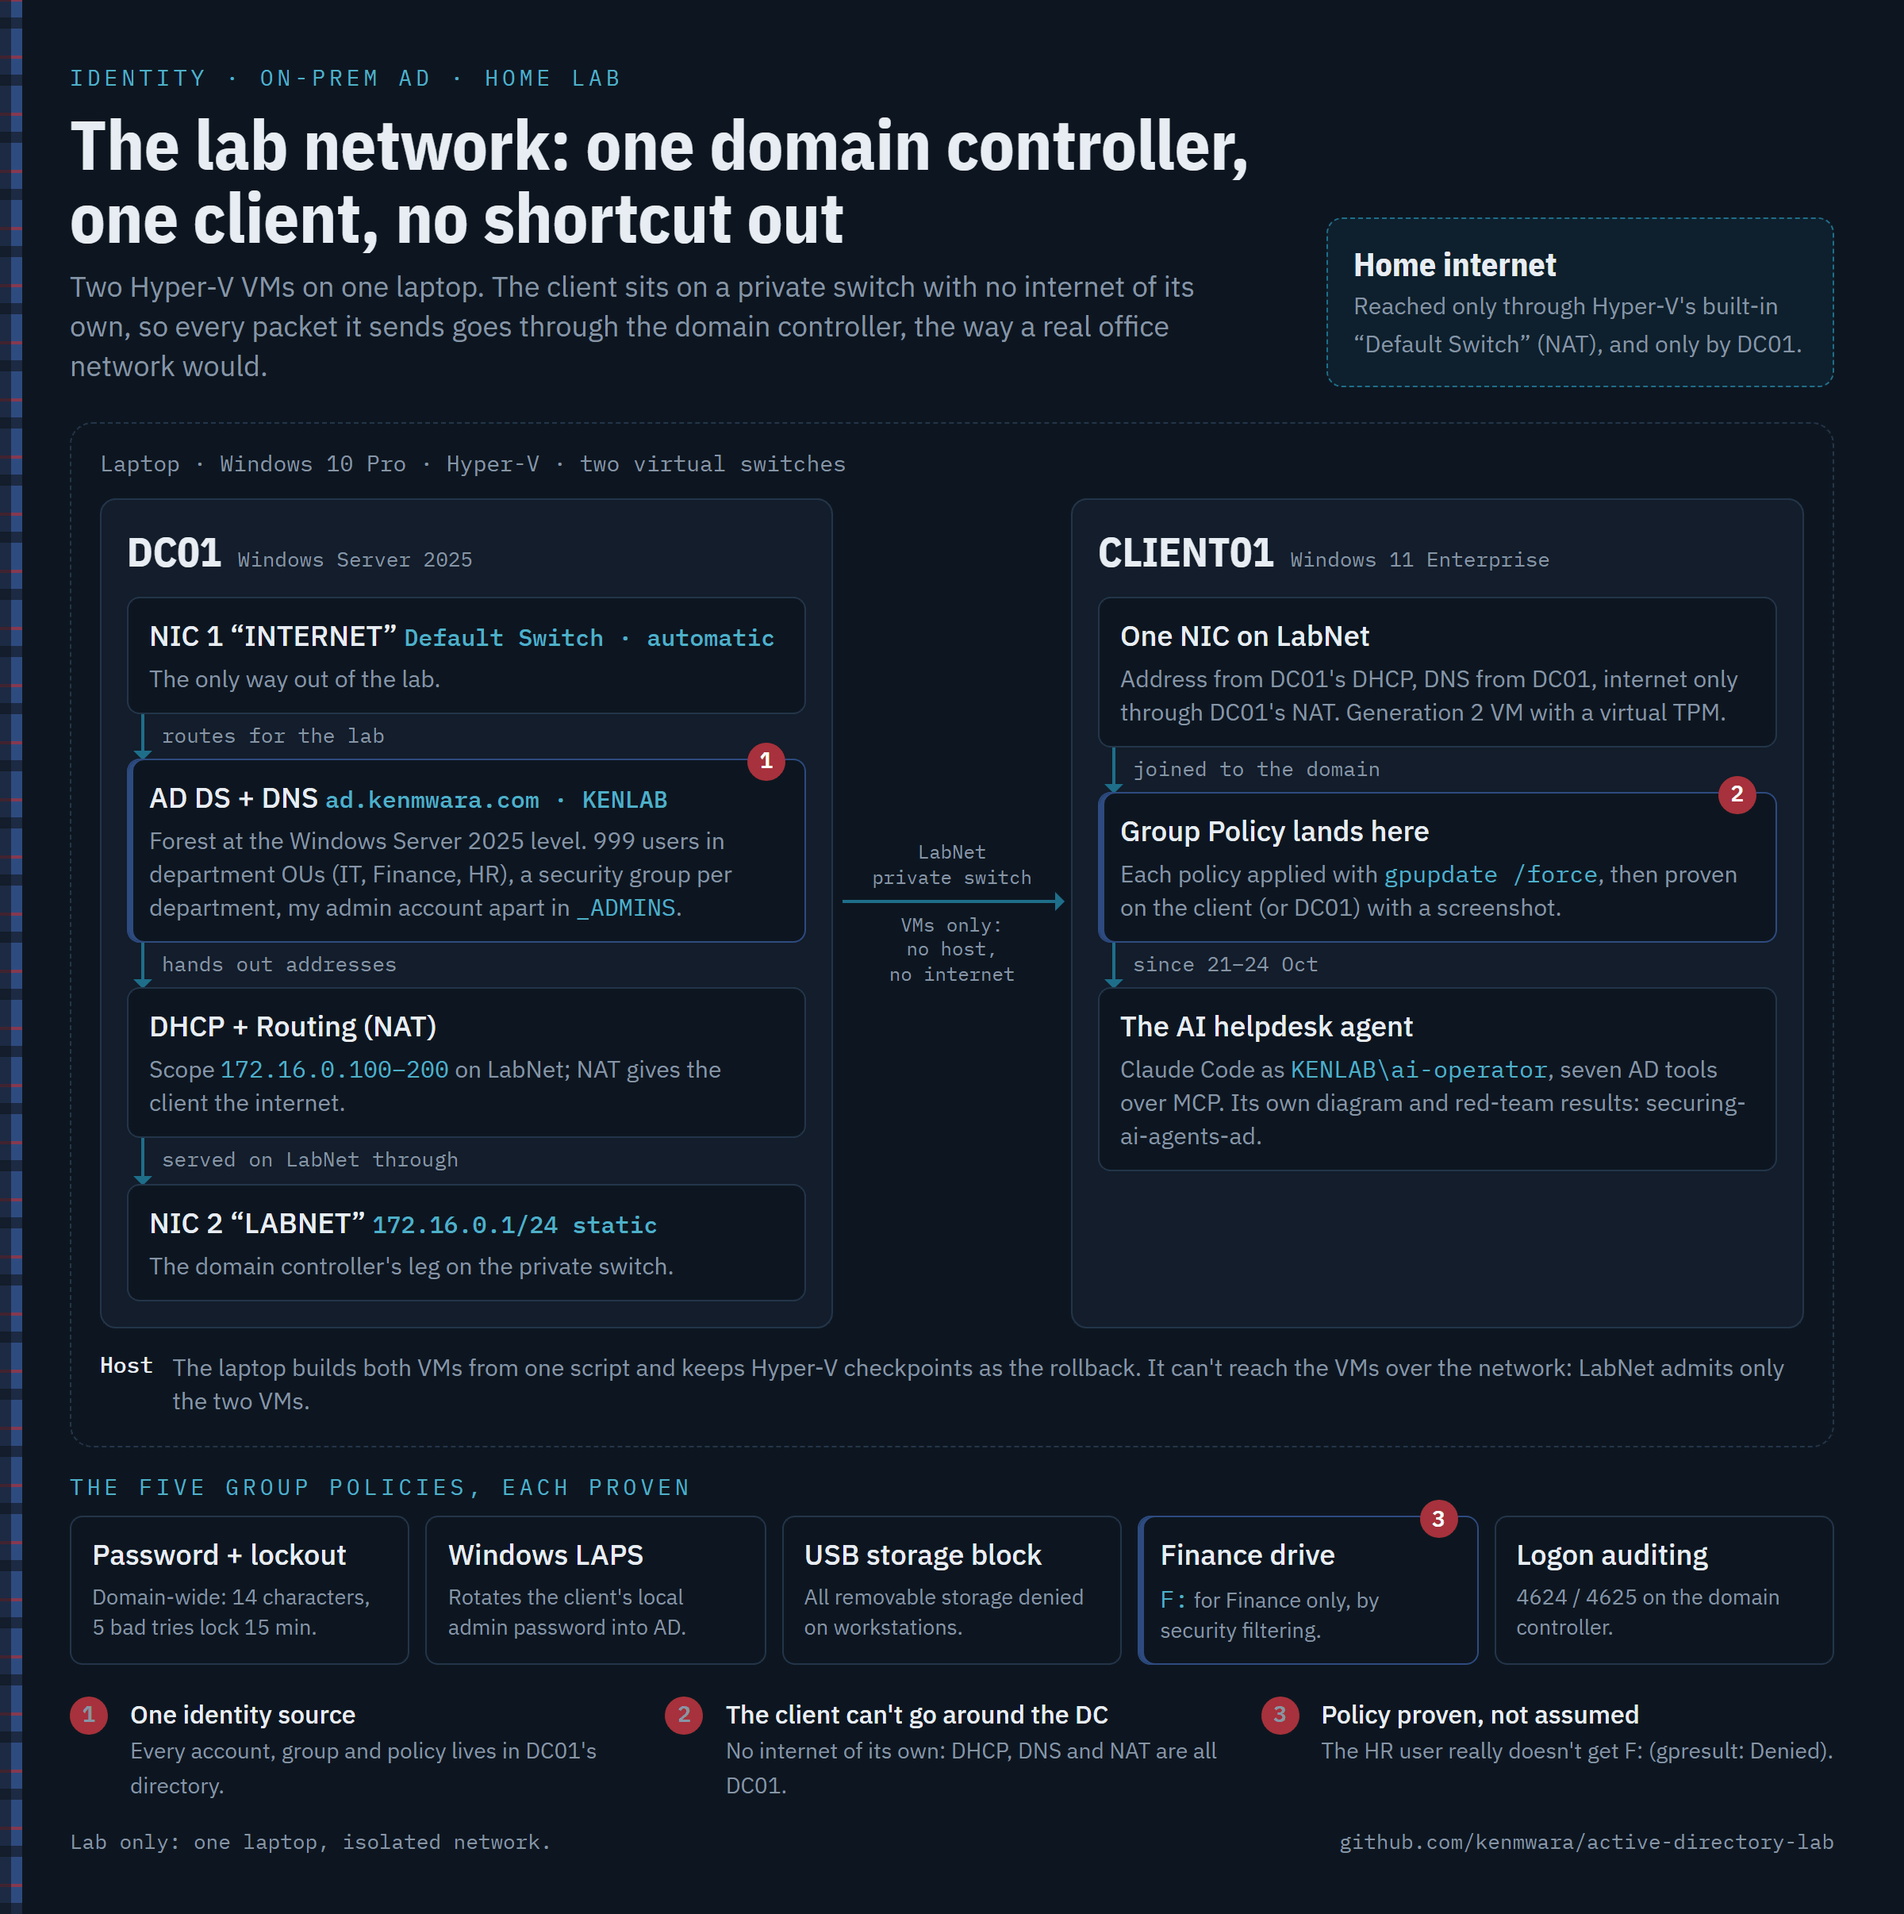
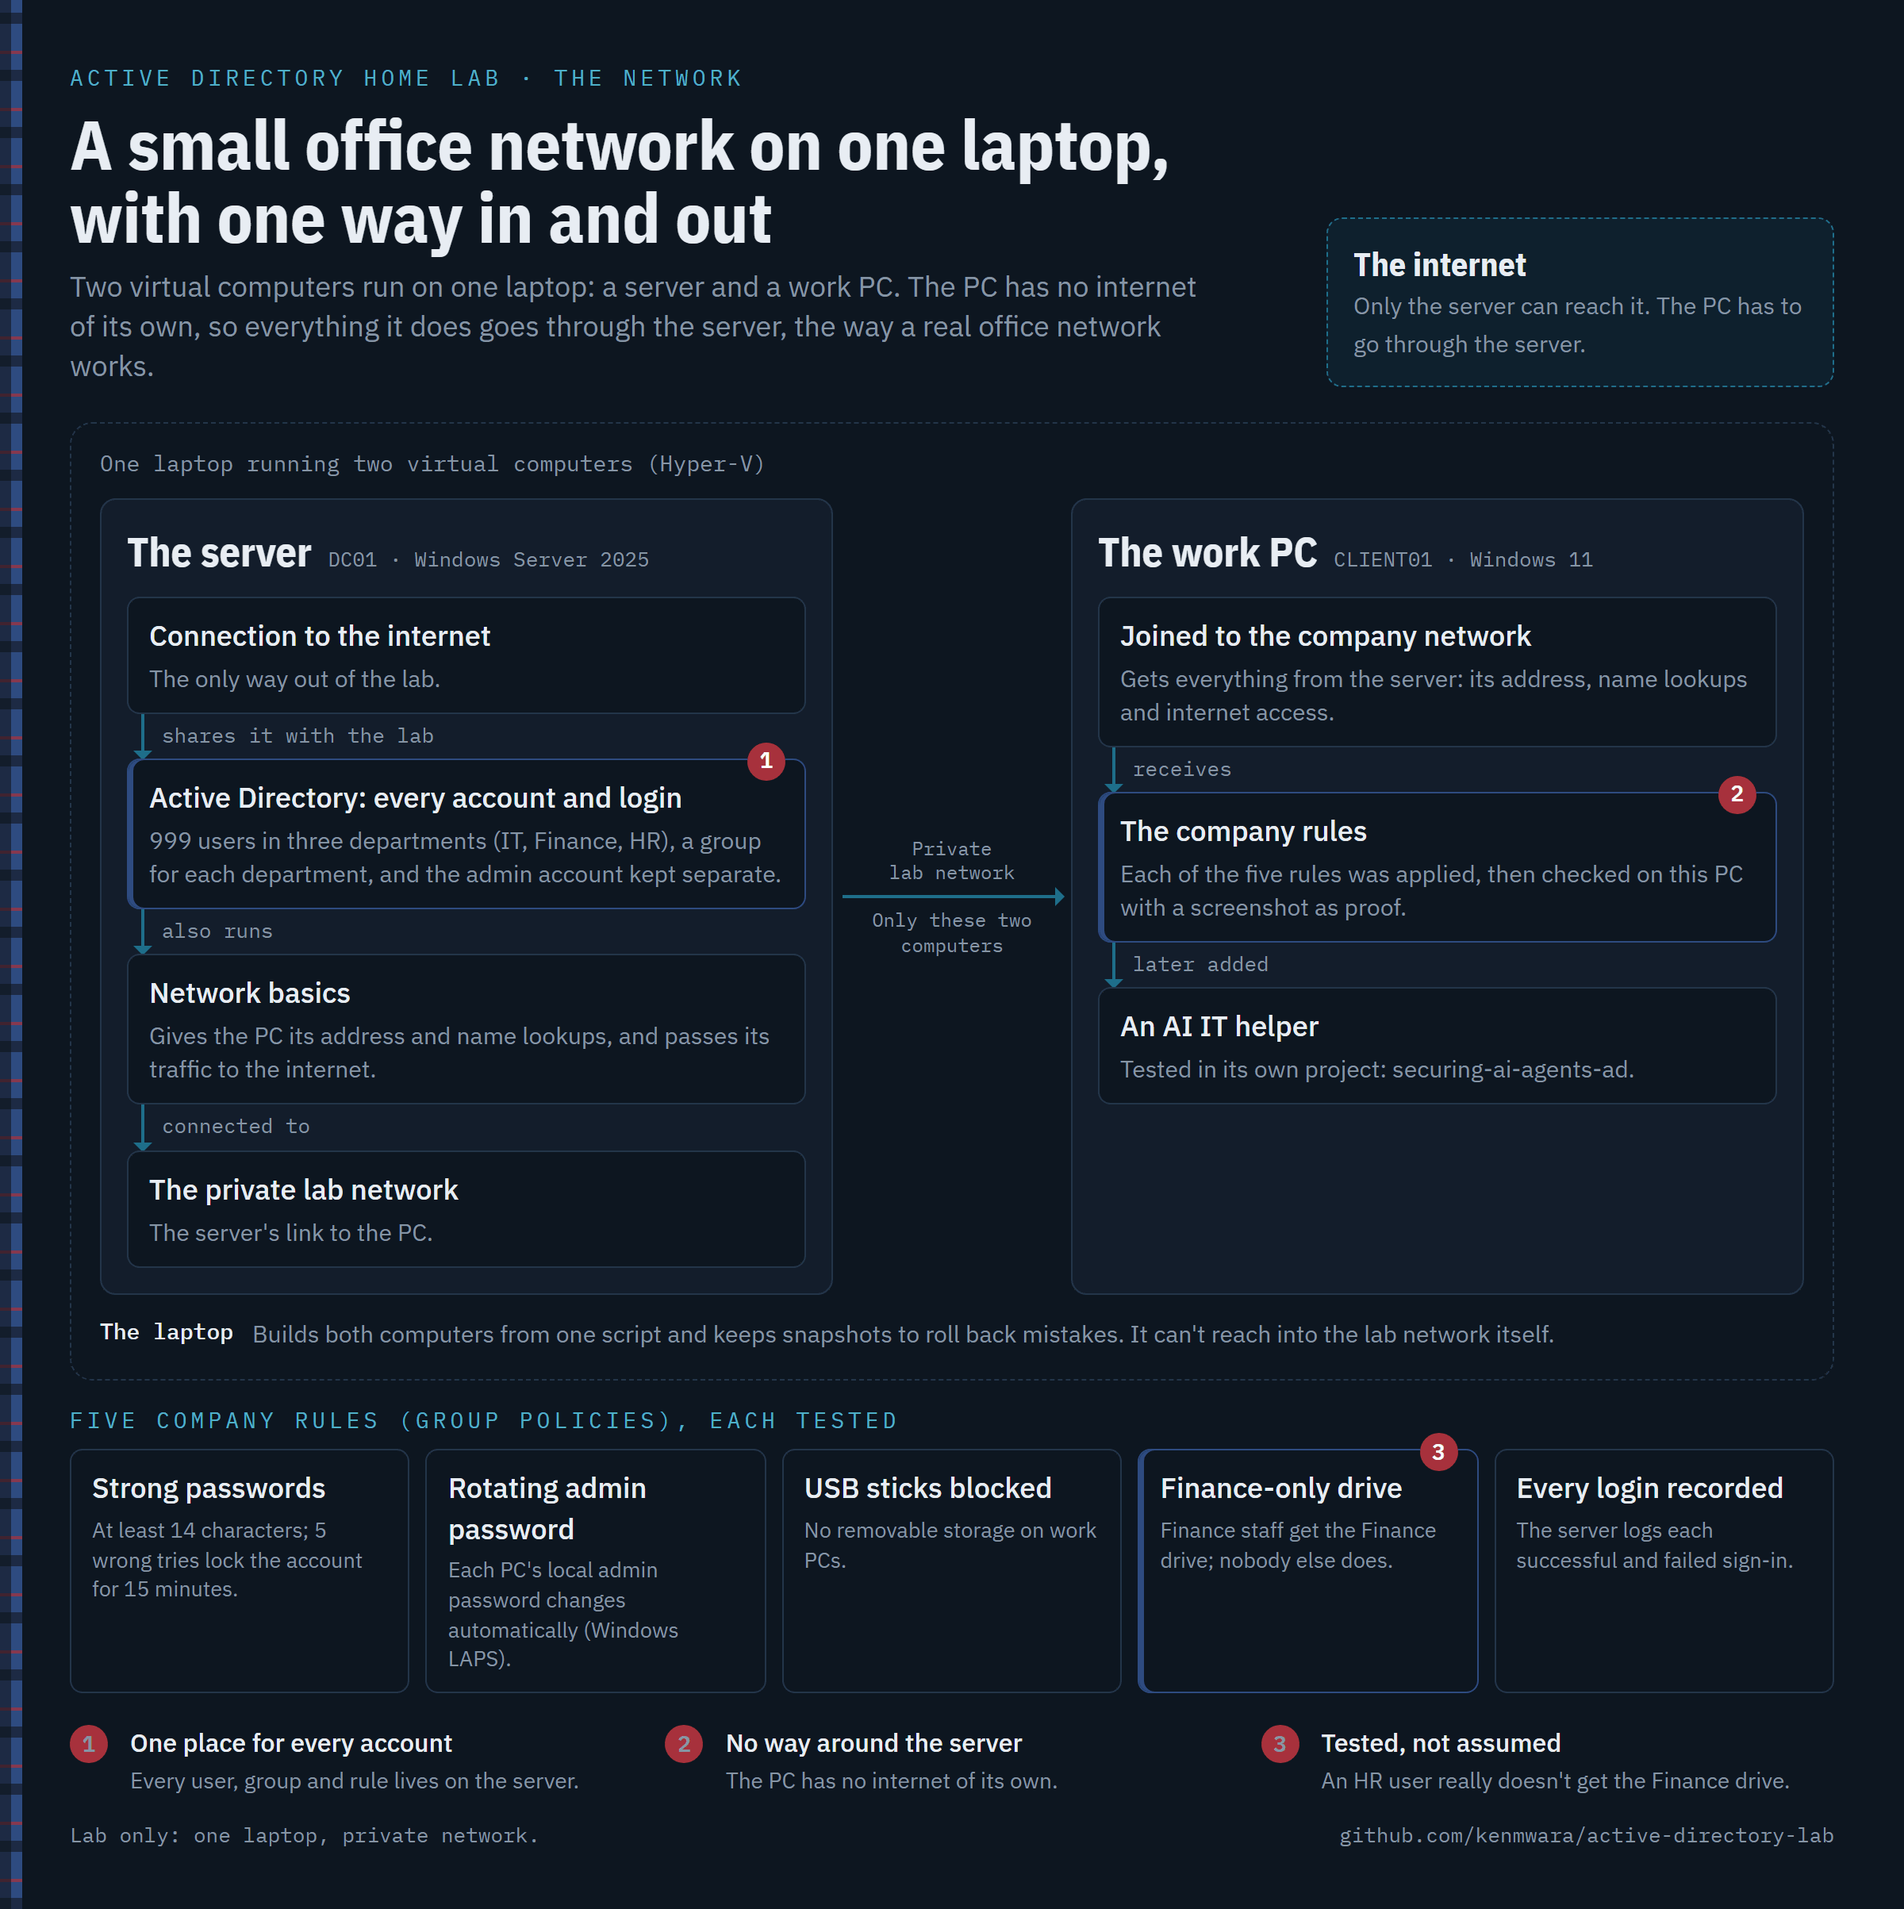
docs: plain-English network diagram; rules, build and problems as designed diagrams (tables kept in dropdowns)

diff --git a/README.md b/README.md
@@ -16,7 +16,11 @@ every login. Each rule was checked on the PC, with screenshots as proof.
 
 **Status:** complete (built 16 to 18 October 2026). Build guide: [BUILD.md](BUILD.md).
 
-## Group Policy results
+## The five company rules
+
+<img src="images/rules.png" width="100%" alt="Five company rules, each tested on the work PC. Group Policies are rules the server pushes to every computer and user. Each one was switched on, then checked. Strong passwords: At least 14 characters, and the last 24 can't be reused. Five wrong tries lock the account for 15 minutes. Proof: A test account really did lock after five wrong tries. Rotating admin password: The PC's local admin password changes on its own and is stored safely on the server (Windows LAPS). Proof: The server shows a freshly rotated password, hidden in the screenshot. USB sticks blocked: No USB drives or other removable storage on work PCs. Proof: The PC's settings show the block switched on. Finance-only drive: Finance staff get the Finance drive. Nobody else does. Proof: A Finance user gets the drive; an HR user doesn't, and Windows' own report says why. Every login recorded: The server logs each successful and failed sign-in. Proof: Both kinds of sign-in show up in the server's security log. Screenshot: Only Finance staff get the Finance drive. HR doesn't, and Windows' own report shows why.">
+
+<details><summary>The rules as a table, with links to every screenshot</summary>
 
 | GPO | Scope | Control | Verification |
 |---|---|---|---|
@@ -26,13 +30,9 @@ every login. Each rule was checked on the PC, with screenshots as proof.
 | Finance drive map | `_USERS`, security-filtered to Finance | Maps `\\DC01\Finance` as `F:` | Finance user receives `F:`; HR user does not; `gpresult` reports *Denied (Security)*: [17](screenshots/17-finance-gets-F.png), [18](screenshots/18-hr-no-F.png), [20](screenshots/20-gpresult.png) |
 | Logon auditing | `Domain Controllers` | Advanced Audit Policy: Logon, success and failure | Event IDs 4624 and 4625 in DC01's Security log: [19](screenshots/19-logon-audit-4624-4625.png) |
 
-<p>
-  <img src="images/readme-hero.png" width="720" alt="The Group Policy Management console; a Finance user receives the F: drive and an HR user does not; gpresult for the HR user shows Finance Drive Map, Filtering: Denied (Security)">
-</p>
+</details>
 
-*Department-scoped drive mapping: the policy, the result for each department, and the `gpresult` evidence.*
-
-## Environment and scope
+## The network in detail
 
 - **Host:** Windows 10 Pro, Hyper-V, two virtual machines on a private switch (LabNet) plus a NAT uplink on DC01 only.
 - **DC01:** Windows Server 2025. Forest `ad.kenmwara.com` (NetBIOS `KENLAB`, Windows2025Domain functional level);
@@ -42,9 +42,13 @@ every login. Each rule was checked on the PC, with screenshots as proof.
   `_USERS\Finance`, `_USERS\HR`, one security group per department, administrative account in `_ADMINS`.
 - **Out of scope:** production systems; all accounts exist only on the isolated lab network.
 
-<img src="images/architecture.png" width="100%" alt="Detailed network diagram. One laptop running Windows 10 Pro and Hyper-V with two virtual switches. DC01 has NIC 1 on the Default Switch (the only route out of the lab) and NIC 2 at 172.16.0.1/24 on the LabNet private switch; it runs AD DS and DNS for ad.kenmwara.com, DHCP for 172.16.0.100 to 200, and NAT. CLIENT01 has one NIC on LabNet and receives its address, DNS and internet access through DC01. LabNet admits only the two VMs. The five Group Policies are listed with their verification.">
+<img src="images/architecture.png" width="100%" alt="The lab network: a small office network on one laptop, with one way in and out. Two virtual computers run on one laptop: a server (DC01, Windows Server 2025) and a work PC (CLIENT01, Windows 11). The PC has no internet of its own, so everything it does goes through the server. The server runs Active Directory with 999 users in IT, Finance and HR, gives the PC its address and name lookups, and is the only way to the internet. The PC receives the five company rules, each checked with a screenshot, and later an AI IT helper tested in its own project. The five rules: strong passwords and lockout, a rotating admin password (Windows LAPS), USB sticks blocked, a Finance-only drive, and every login recorded.">
 
-## Build milestones
+## How it was built
+
+<img src="images/build.png" width="100%" alt="Built in three days, step by step. 16 to 18 October 2026. Every step has a screenshot as proof (listed below the diagram). Phase 1, Set up the machines: Created the private network and both virtual computers with one script; Named the server and gave it a fixed address. Phase 2, Build the directory: Turned the server into a domain controller for ad.kenmwara.com; Created a separate admin account; Switched on automatic network addresses; Added 999 users with a script. Phase 3, Connect the work PC: Shared the server's internet connection with the lab; The PC got its address from the server; The PC joined the company network and a user signed in; Checked the PC's internet runs through the server. Phase 4, Organise and apply rules: Created the IT, Finance and HR departments and groups; moved the PC into Workstations; Created and switched on the five company rules.">
+
+<details><summary>Every step, with its screenshot</summary>
 
 | # | Milestone | Evidence |
 |---|---|---|
@@ -61,7 +65,11 @@ every login. Each rule was checked on the PC, with screenshots as proof.
 | 11 | Department OUs and security groups created; CLIENT01 moved to `Workstations` | [10](screenshots/10-ou-structure.png), [11](screenshots/11-client01-in-workstations.png) |
 | 12 | Five Group Policies created and linked | [12](screenshots/12-gpmc-overview.png) |
 
-## Issues identified and resolved
+## Problems found and fixed
+
+<img src="images/issues.png" width="100%" alt="Five problems hit during the build, and how each was fixed. Problem: The Finance drive didn't appear for Finance staff, and no error said why. Why: A targeting setting inside the rule was failing silently. Fix: Removed it and limited the whole rule to the Finance group, with one read permission Windows needs. Finance gets the drive; HR is refused. Problem: Installing the rotating admin password feature (LAPS) failed: 'insufficient access rights'. Why: That change needs Schema Admins rights, a level above Domain Admins, and new rights only count after signing in again. Fix: Added the admin to Schema Admins, then signed out and back in. Problem: Company users couldn't sign in through the laptop's window into the PC. Why: That window counts as a remote-desktop login. Fix: Allowed company users to use remote desktop on the PC. Problem: The PC sometimes looked for the server on the wrong network. Why: The server published its internet-side address in the company directory too. Fix: Told that connection not to publish its address. Problem: A virtual computer wouldn't start from the install disk. Why: The 'press any key' prompt gives up after about 5 seconds. Fix: Restarted it and pressed a key straight away.">
+
+<details><summary>The problems as a table, with the technical detail</summary>
 
 | Issue | Root cause | Resolution |
 |---|---|---|
@@ -86,6 +94,10 @@ DC01's audit log. Its design, 13-test security assessment and findings are docum
 | [`scripts/create-lab-vms.ps1`](scripts/create-lab-vms.ps1) | Creates the Hyper-V switch and both VMs |
 | [`screenshots/`](screenshots/) | Evidence for every milestone and policy |
 | [`images/`](images/) | Flow, architecture and composite images |
+
+</details>
+
+</details>
 
 **Third-party components:** user provisioning used the public script
 [joshmadakor1/AD_PS](https://github.com/joshmadakor1/AD_PS) (not copied here). The base topology adapts a public home-lab
